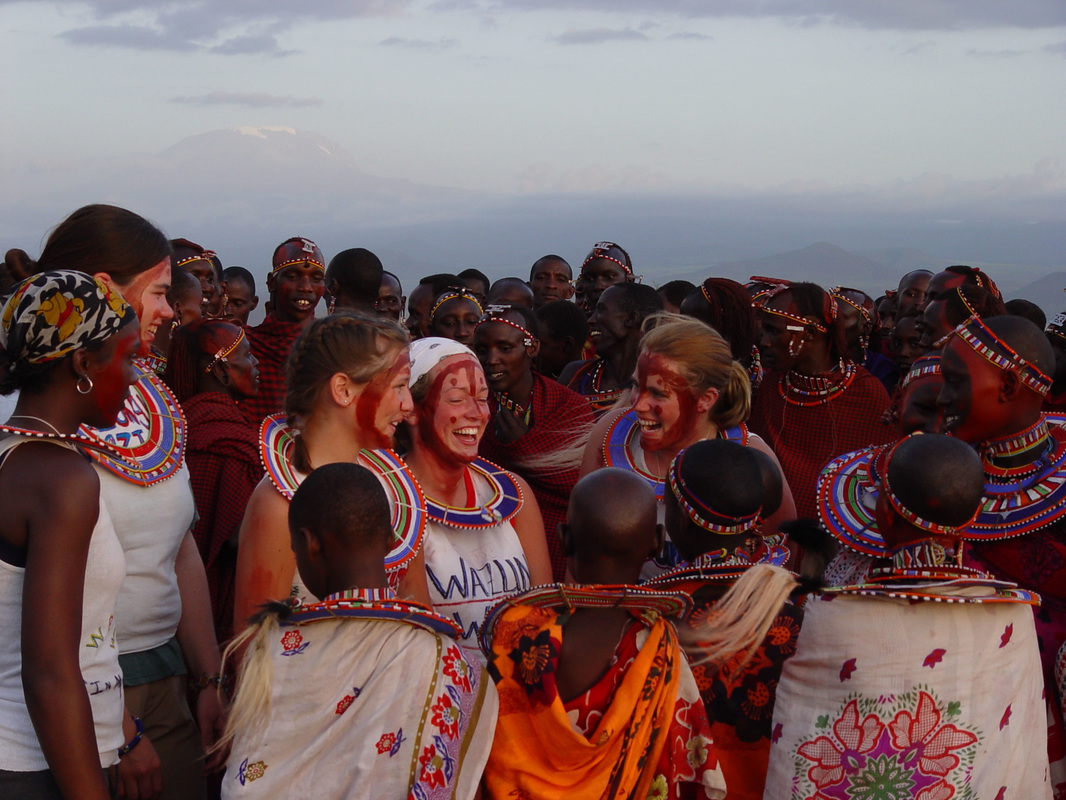
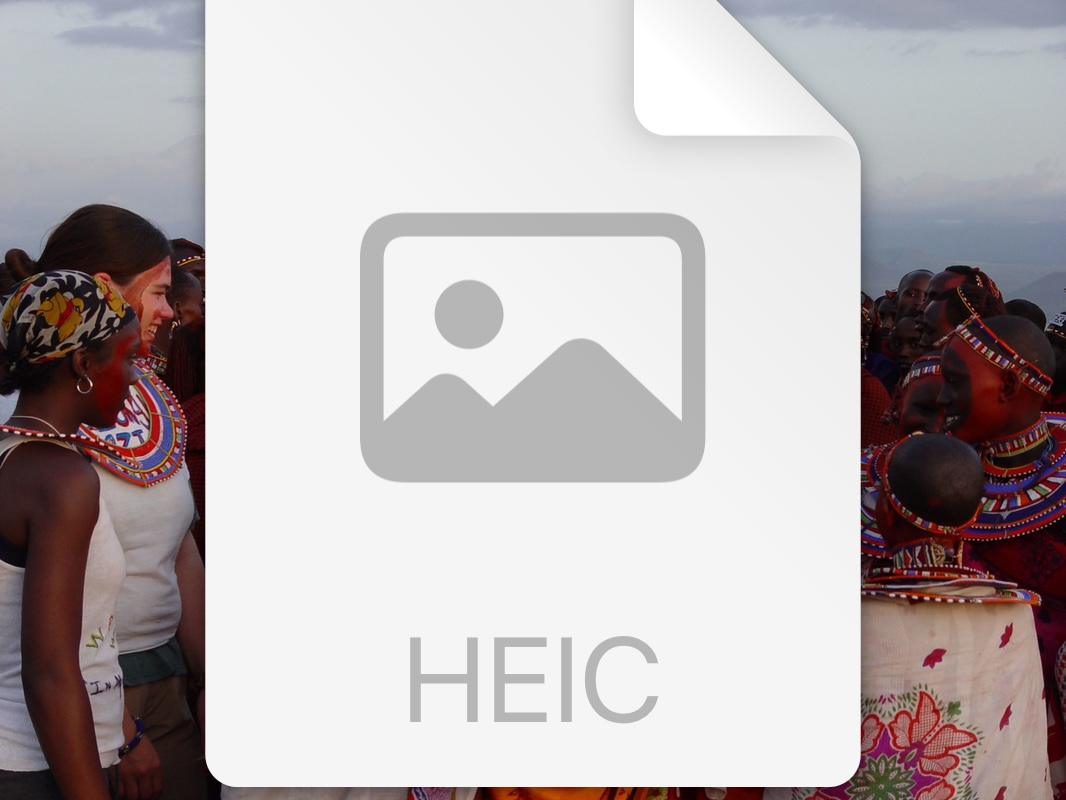
beam pictures

diff --git a/css/style.css b/css/style.css
@@ -264,6 +264,9 @@ p:last-child { margin-bottom: 0; }
 }
 .card:hover { box-shadow: 0 4px 20px rgba(26,107,53,0.1); }
 
+/* IMAGES - never let an image overflow its container */
+img { max-width: 100%; }
+
 /* SPLIT */
 .split { display: grid; grid-template-columns: 1fr 1fr; gap: 4rem; align-items: center; }
 .split img { width: 100%; height: 420px; object-fit: cover; border-radius: 4px; }
